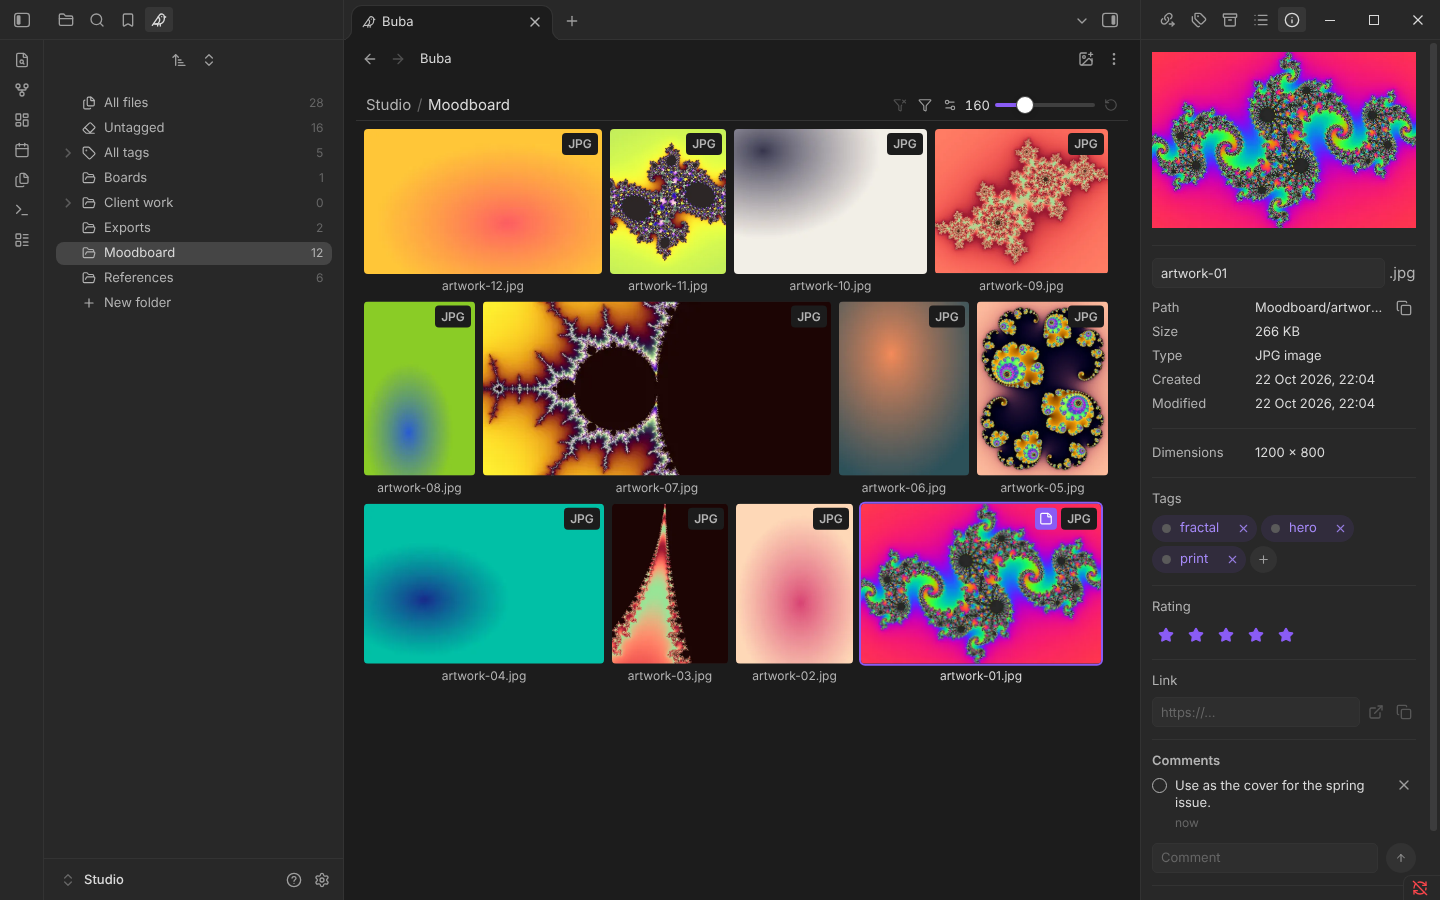
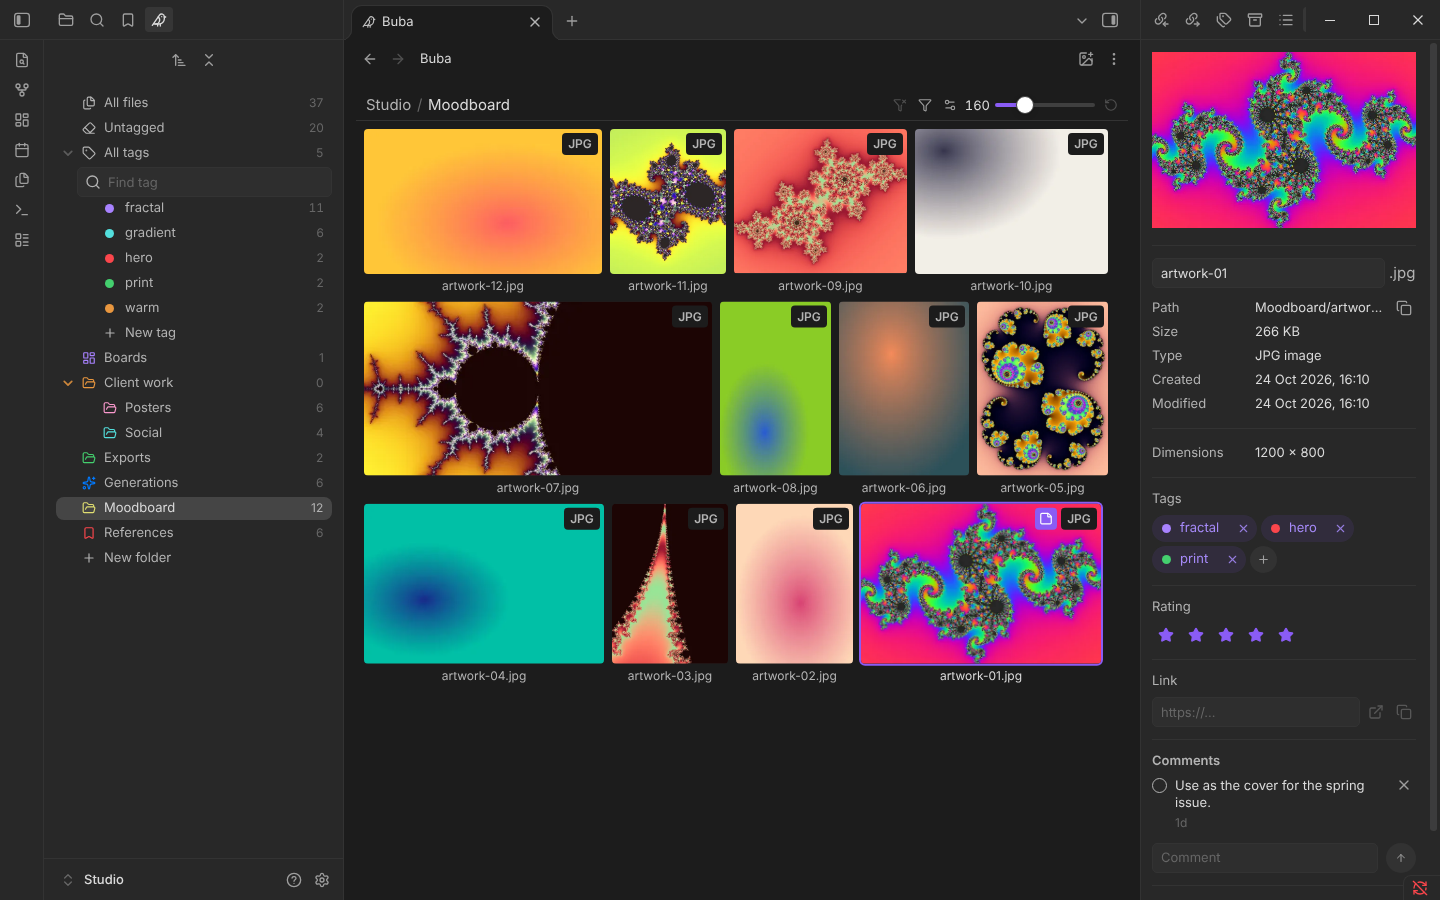
Buba 1.0.1

diff --git a/src/platform/previews/frame.ts b/src/platform/previews/frame.ts
@@ -81,14 +81,14 @@ export function seekFrame(video: FrameVideo, time: number, limit: number): Promi
     let done = false;
     let seeked = false;
     let shown = false;
-    let grace: ReturnType<typeof setTimeout> | undefined;
+    let grace: number | undefined;
     let paint: number | undefined;
     let request: number | undefined;
     const frames = video.requestVideoFrameCallback !== undefined;
     const from = video.currentTime;
     const atPoint = (shown: number): boolean =>
       Math.abs(shown - time) < Math.abs(shown - from) && time - shown < LONGEST_FRAME_S;
-    const timer = setTimeout(() => finish(new Error(`no video frame in ${limit} ms`)), limit);
+    const timer = window.setTimeout(() => finish(new Error(`no video frame in ${limit} ms`)), limit);
     const ask = () => {
       request = video.requestVideoFrameCallback?.((_now, metadata) => {
         request = undefined;
@@ -108,16 +108,16 @@ export function seekFrame(video: FrameVideo, time: number, limit: number): Promi
       if (done || !seeked) return;
       if (shown) return finish();
       if (grace !== undefined || video.readyState < HAVE_CURRENT_DATA) return;
-      grace = setTimeout(() => finish(), FRAME_MS);
-      if (!frames) paint = requestAnimationFrame(() => finish());
+      grace = window.setTimeout(() => finish(), FRAME_MS);
+      if (!frames) paint = window.requestAnimationFrame(() => finish());
     }
     function finish(error?: Error): void {
       if (done) return;
       done = true;
-      clearTimeout(timer);
-      clearTimeout(grace);
+      window.clearTimeout(timer);
+      window.clearTimeout(grace);
       if (request !== undefined) video.cancelVideoFrameCallback?.(request);
-      if (paint !== undefined) cancelAnimationFrame(paint);
+      if (paint !== undefined) window.cancelAnimationFrame(paint);
       video.removeEventListener('seeked', onSeeked);
       for (const type of DATA) video.removeEventListener(type, check);
       video.removeEventListener('error', onError);

diff --git a/src/assets/actions/import-drop.ts b/src/assets/actions/import-drop.ts
@@ -22,23 +22,25 @@ import { onGridEvent, type GridLeafView } from '../grid/selection.ts';
 
 /** Class of the grid body while files from disk are dragged over it, as on an Obsidian tree folder. */
 const OVER = 'is-being-dragged-over';
+/** The same moment on the whole view, which draws the overlay (grid.css). */
+const VIEW_OVER = 'buba-drop-over';
 /** A notice with refusals stays longer so the names can be read, ms. */
 const REFUSED_MS = 10_000;
 
 export function registerImportDrop(plugin: Plugin, assets: BubaAssets): void {
-  onGridEvent(plugin, assets, 'dragover', (evt, { body }) => {
+  onGridEvent(plugin, assets, 'dragover', (evt, { view, body }) => {
     const dt = evt.dataTransfer;
     if (!fromDisk(dt)) return;
     evt.preventDefault();
     dt.dropEffect = 'copy';
-    body.addClass(OVER);
+    over(view, body, true);
   });
-  onGridEvent(plugin, assets, 'dragleave', (evt, { body }) => {
+  onGridEvent(plugin, assets, 'dragleave', (evt, { view, body }) => {
     const to = evt.relatedTarget as Node | null;
-    if (!to || !body.contains(to)) body.removeClass(OVER);
+    if (!to || !body.contains(to)) over(view, body, false);
   });
   onGridEvent(plugin, assets, 'drop', (evt, { view, body }) => {
-    body.removeClass(OVER);
+    over(view, body, false);
     const dt = evt.dataTransfer;
     if (!fromDisk(dt)) return;
     evt.preventDefault();
@@ -51,6 +53,16 @@ export function registerImportDrop(plugin: Plugin, assets: BubaAssets): void {
     evt.preventDefault();
     void put(view, assets, files);
   });
+}
+
+function over(view: GridLeafView, body: HTMLElement, on: boolean): void {
+  if (on) {
+    body.addClass(OVER);
+    view.contentEl.addClass(VIEW_OVER);
+  } else {
+    body.removeClass(OVER);
+    view.contentEl.removeClass(VIEW_OVER);
+  }
 }
 
 /** Files from disk are being dragged, not Buba tiles: `dragover` cannot read the data, only `types`. */

diff --git a/src/assets/tags/group-modals.ts b/src/assets/tags/group-modals.ts
@@ -9,10 +9,9 @@ import { groupChoices, type GroupChoice, type GroupInfo } from '../../core/tags/
 /**
  * Confirmation: lines of text, an action button and "Cancel"; closing without a choice does nothing.
  * `warning` marks an irreversible action, like Obsidian's delete dialog: "Cancel" first, the action as a red
- * button (`setWarning`, as in "Delete files" in src/assets/actions/menu-items.ts; `setDestructive` needs
- * Obsidian 1.13 and the plugin supports 1.12.3). It mimics Obsidian's confirmation dialog: `mod-confirmation`
- * on `containerEl` and `mod-cancel` on "Cancel", as `ConfirmationModal` and `setCancel` set them (both 1.13+
- * only). On iPhone these make the dialog a bottom sheet without the close button and with "Cancel" at the
+ * button (`setDestructive().setCta()`, as in "Delete files" in src/assets/actions/menu-items.ts). It mimics
+ * Obsidian's confirmation dialog: `mod-confirmation` on `containerEl` and `mod-cancel` on "Cancel", as
+ * `ConfirmationModal` and `setCancel` set them (both 1.13+ only). On iPhone these make the dialog a bottom sheet without the close button and with "Cancel" at the
  * bottom (Obsidian's app.css, `.is-mobile` and `.is-phone` rules); on desktop these classes have no rules.
  * Buttons are a row in `modalEl` after `contentEl`, as in `ConfirmationModal` and the "What Obsidian needs"
  * dialog (src/assets/settings/setup-window.ts): full width on phones; the row is removed on close.
@@ -56,7 +55,7 @@ export class ConfirmModal extends Modal {
       this.close();
       this.#run();
     });
-    if (this.#warning) action.setWarning();
+    if (this.#warning) action.setDestructive().setCta();
     else {
       action.setCta();
       cancel();

diff --git a/src/platform/files/import.ts b/src/platform/files/import.ts
@@ -180,8 +180,9 @@ async function readSlice(blob: Blob, start: number, end: number): Promise<ArrayB
 }
 
 /**
- * Appends the rest of a `Blob` to a just-created file in `CHUNK_BYTES` chunks. On failure the partial file is
- * removed with `vault.delete` (it is ours, created by this write) and the refusal states the reason.
+ * Appends the rest of a `Blob` to a just-created file in `CHUNK_BYTES` chunks. On failure the partial file (ours,
+ * created by this write) goes where the user's "Deleted files" setting says, `fileManager.trashFile`, and the
+ * refusal states the reason.
  */
 async function appendRest(app: App, file: TFile, blob: Blob): Promise<void> {
   try {
@@ -193,7 +194,7 @@ async function appendRest(app: App, file: TFile, blob: Blob): Promise<void> {
     const reason =
       error instanceof Refused ? error.message : t('importNotWritten', { error: message(error) });
     try {
-      await app.vault.delete(file);
+      await app.fileManager.trashFile(file);
     } catch (removal) {
       throw new Refused(t('importPartialKept', { reason, path: file.path, error: message(removal) }));
     }
@@ -215,10 +216,10 @@ function statShows(app: App, file: TFile, size: number): Promise<void> {
     const ref = app.vault.on('modify', (changed) => {
       if (changed.path === file.path && file.stat.size === size) done();
     });
-    const timer = setTimeout(done, STAT_WAIT_MS);
+    const timer = window.setTimeout(done, STAT_WAIT_MS);
     function done(): void {
       app.vault.offref(ref);
-      clearTimeout(timer);
+      window.clearTimeout(timer);
       resolve();
     }
     if (file.stat.size === size) done();

diff --git a/src/platform/files/undo.ts b/src/platform/files/undo.ts
@@ -439,11 +439,11 @@ function watchCreated(app: App) {
       const rest = new Set(paths.filter((path) => !seen.has(path) && !app.vault.getAbstractFileByPath(path)));
       if (rest.size) {
         await new Promise<void>((done) => {
-          const timer = setTimeout(done, ms);
+          const timer = window.setTimeout(done, ms);
           wake = (path) => {
             rest.delete(path);
             if (rest.size) return;
-            clearTimeout(timer);
+            window.clearTimeout(timer);
             done();
           };
         });
@@ -453,6 +453,9 @@ function watchCreated(app: App) {
     },
   };
 }
+
+/** A file, not a folder: only files carry `stat`. */
+const isFile = (item: TAbstractFile | null): item is TFile => item !== null && 'stat' in item;
 
 /**
  * Redo of a deletion: which of the step's files are at their old place as the same file (size and time);
@@ -464,10 +467,10 @@ export function trashReady(app: App, step: TrashStep): { files: TFile[]; skipped
   const skipped: TrashUnchecked[] = [];
   for (const op of step.ops) {
     const file = app.vault.getAbstractFileByPath(op.from);
-    const print = file && 'stat' in file ? statPrint((file as TFile).stat) : null;
-    if (!print) skipped.push({ op, why: 'missing' });
+    const print = isFile(file) ? statPrint(file.stat) : null;
+    if (!print || !isFile(file)) skipped.push({ op, why: 'missing' });
     else if (!samePrint(print, op.print)) skipped.push({ op, why: 'changed' });
-    else files.push(file as TFile);
+    else files.push(file);
   }
   return { files, skipped };
 }

diff --git a/src/platform/previews/store.ts b/src/platform/previews/store.ts
@@ -126,7 +126,7 @@ interface PreviewSchema extends DBSchema {
 const stores = new WeakMap<Plugin, DevicePreviews>();
 
 /** The window's `fetch`: the file start and the probes are read with it, like an image original. */
-const fetchFile: Fetcher = (src, init) => fetch(src, init);
+const fetchFile: Fetcher = (src, init) => window.fetch(src, init);
 
 /**
  * The preview store, one per plugin instance; plugin unload closes the database and revokes URLs. A preview
@@ -346,7 +346,7 @@ function buildPreview(
  * Image: the original size from the header via <img>, the pixels already downscaled by `createImageBitmap`.
  */
 async function imagePreview(src: string, type: string): Promise<BuiltPreview> {
-  const response = await fetch(src);
+  const response = await window.fetch(src);
   if (!response.ok) throw new Error(`reading original: ${response.status}`);
   const original = await response.blob();
   const { width, height } = await naturalSize(original);
@@ -388,7 +388,7 @@ async function naturalSize(original: Blob): Promise<Size> {
  */
 async function videoPreview(src: string, type: string, mobileApp: boolean): Promise<BuiltPreview> {
   const plan = videoFramePlan(mobileApp);
-  const video = document.createElement('video');
+  const video = createEl('video');
   video.muted = true;
   video.playsInline = true;
   video.preload = plan.preload;

diff --git a/src/assets/inspector/comments-section.ts b/src/assets/inspector/comments-section.ts
@@ -188,7 +188,8 @@ function renderComments(
     }
   };
   // The key scope catches Enter before the open note's Obsidian commands. Shift+Enter inserts a line break;
-  // IME composition commits and auto-repeat of a held key do not send the comment.
+  // IME composition commits and auto-repeat of a held key do not send the comment. Safari ends the
+  // composition before the keydown of that Enter, so only the deprecated keyCode 229 still marks it.
   let composing = false;
   input.inputEl.addEventListener('compositionstart', () => {
     composing = true;
@@ -225,7 +226,7 @@ function renderComments(
   // field's window: the panel can be in an Obsidian popout window; the first notification arrives once the
   // field is laid out. Layout runs in the next frame: changing the field height inside the notification would
   // cause "ResizeObserver loop completed with undelivered notifications".
-  const win = form.win as (Window & typeof globalThis) | undefined;
+  const win = form.win as typeof window | undefined;
   let width = -1;
   const resize = win?.ResizeObserver
     ? new win.ResizeObserver(([entry]) => {

diff --git a/src/platform/media/duration.ts b/src/platform/media/duration.ts
@@ -16,7 +16,7 @@ export const WAIT_MS = 5000;
 export function mediaDuration(
   src: string,
   signal: AbortSignal,
-  make: () => HTMLVideoElement = () => document.createElement('video'),
+  make: () => HTMLVideoElement = () => createEl('video'),
 ): Promise<number | null> {
   if (signal.aborted) return Promise.resolve(null);
   const media = make();
@@ -24,13 +24,13 @@ export function mediaDuration(
   media.playsInline = true;
   media.preload = 'metadata';
   return new Promise((resolve) => {
-    const timer = setTimeout(() => finish(null), WAIT_MS);
+    const timer = window.setTimeout(() => finish(null), WAIT_MS);
     const onMeta = () =>
       finish(Number.isFinite(media.duration) && media.duration > 0 ? media.duration : null);
     const onError = () => finish(null);
     const onAbort = () => finish(null);
     function finish(seconds: number | null): void {
-      clearTimeout(timer);
+      window.clearTimeout(timer);
       media.removeEventListener('loadedmetadata', onMeta);
       media.removeEventListener('error', onError);
       signal.removeEventListener('abort', onAbort);

diff --git a/src/assets/inspector/preview-section.ts b/src/assets/inspector/preview-section.ts
@@ -36,8 +36,11 @@ export function previewSections(plugin: Plugin): InspectorSection[] {
           const kind = file ? previewKind(file.extension) : null;
           const preview = store.get(first);
           const state = previewState(kind, preview);
-          const frame = el.createDiv({ cls: 'buba-inspector-preview' });
-          if (state === 'image' && preview) frame.createEl('img', { attr: { src: preview.url } });
+          const image = state === 'image' ? preview : undefined;
+          const frame = el.createDiv({
+            cls: image ? 'buba-inspector-preview mod-image' : 'buba-inspector-preview',
+          });
+          if (image) frame.createEl('img', { attr: { src: image.url } });
           // The icon follows the format family, as on the tile, for any file: a pen for AI, an image file for
           // PSD, an archive for ZIP, a text page for MD; images and video keep "image" and "film". A file
           // outside the family table gets `file`. First lines of MD and TXT are a tile feature; the panel

diff --git a/src/platform/previews/excerpts.ts b/src/platform/previews/excerpts.ts
@@ -155,7 +155,7 @@ export class Excerpts implements ExcerptStore {
 const stores = new WeakMap<Plugin, Excerpts>();
 
 /** The window's `fetch`, used to read the file start, as for PSD. */
-const fetchFile: Fetcher = (src, init) => fetch(src, init);
+const fetchFile: Fetcher = (src, init) => window.fetch(src, init);
 
 /**
  * The first lines store, one per plugin instance. Desktop: 2 concurrent reads and 2000 texts; phone: 1 and
@@ -189,7 +189,7 @@ export function excerptStore(plugin: Plugin): ExcerptStore {
           throw new Error('file URL on iPhone ignores Range — a file over 64 MB is not read');
         return (await readHead(fetchFile, vault.getResourcePath(file), EXCERPT_HEAD, file.stat.size)).bytes;
       },
-      frame: (run) => void requestAnimationFrame(run),
+      frame: (run) => void window.requestAnimationFrame(run),
     },
     Platform.isMobile ? { reads: 1, memory: PHONE_EXCERPT_MEMORY } : {},
   );

diff --git a/src/assets/grid/selection.ts b/src/assets/grid/selection.ts
@@ -230,7 +230,7 @@ export function onGridEvent<K extends keyof DocumentEventMap>(
  * hides them) keeps its selection and place.
  */
 function selectAdded(assets: BubaAssets, view: GridLeafView, added: ReadonlySet<string>, frames = 0): void {
-  requestAnimationFrame(() => {
+  window.requestAnimationFrame(() => {
     if (!gridViews(assets).includes(view)) return;
     const shown = view.pathsInOrder().filter((path) => added.has(path));
     const [first] = shown;
@@ -302,7 +302,7 @@ function announce(view: GridLeafView, state: ViewSelection): void {
 
 /** Reconciliation in the next frame, one per frame. */
 function schedule(view: GridLeafView, state: ViewSelection): void {
-  state.frame ||= requestAnimationFrame(() => {
+  state.frame ||= window.requestAnimationFrame(() => {
     state.frame = 0;
     reconcile(view, state);
   });

diff --git a/src/assets/grid/grid.css b/src/assets/grid/grid.css
@@ -13,11 +13,11 @@
 }
 
 /* While files from the system file manager are dragged over the body (import-drop.ts sets
-   `is-being-dragged-over`), its visible part is covered with Obsidian's accent color at 10 %, like the Bases
+   `is-being-dragged-over` on the body and `buba-drop-over` on the view), its visible part is covered with Obsidian's accent color at 10 %, like the Bases
    view and folder rows in the tree. The overlay sits on the view in the body's cell, not inside the body: the
    body scrolls and would carry the overlay away with the tiles. The toolbar stays uncovered. The overlay
    ignores the pointer, so drop, click and wheel reach the body. */
-.buba-grid:has(> .buba-grid-scroller.is-being-dragged-over)::after {
+.buba-grid.buba-drop-over::after {
   content: '';
   position: absolute;
   grid-area: 2 / 1 / 3 / 2;
